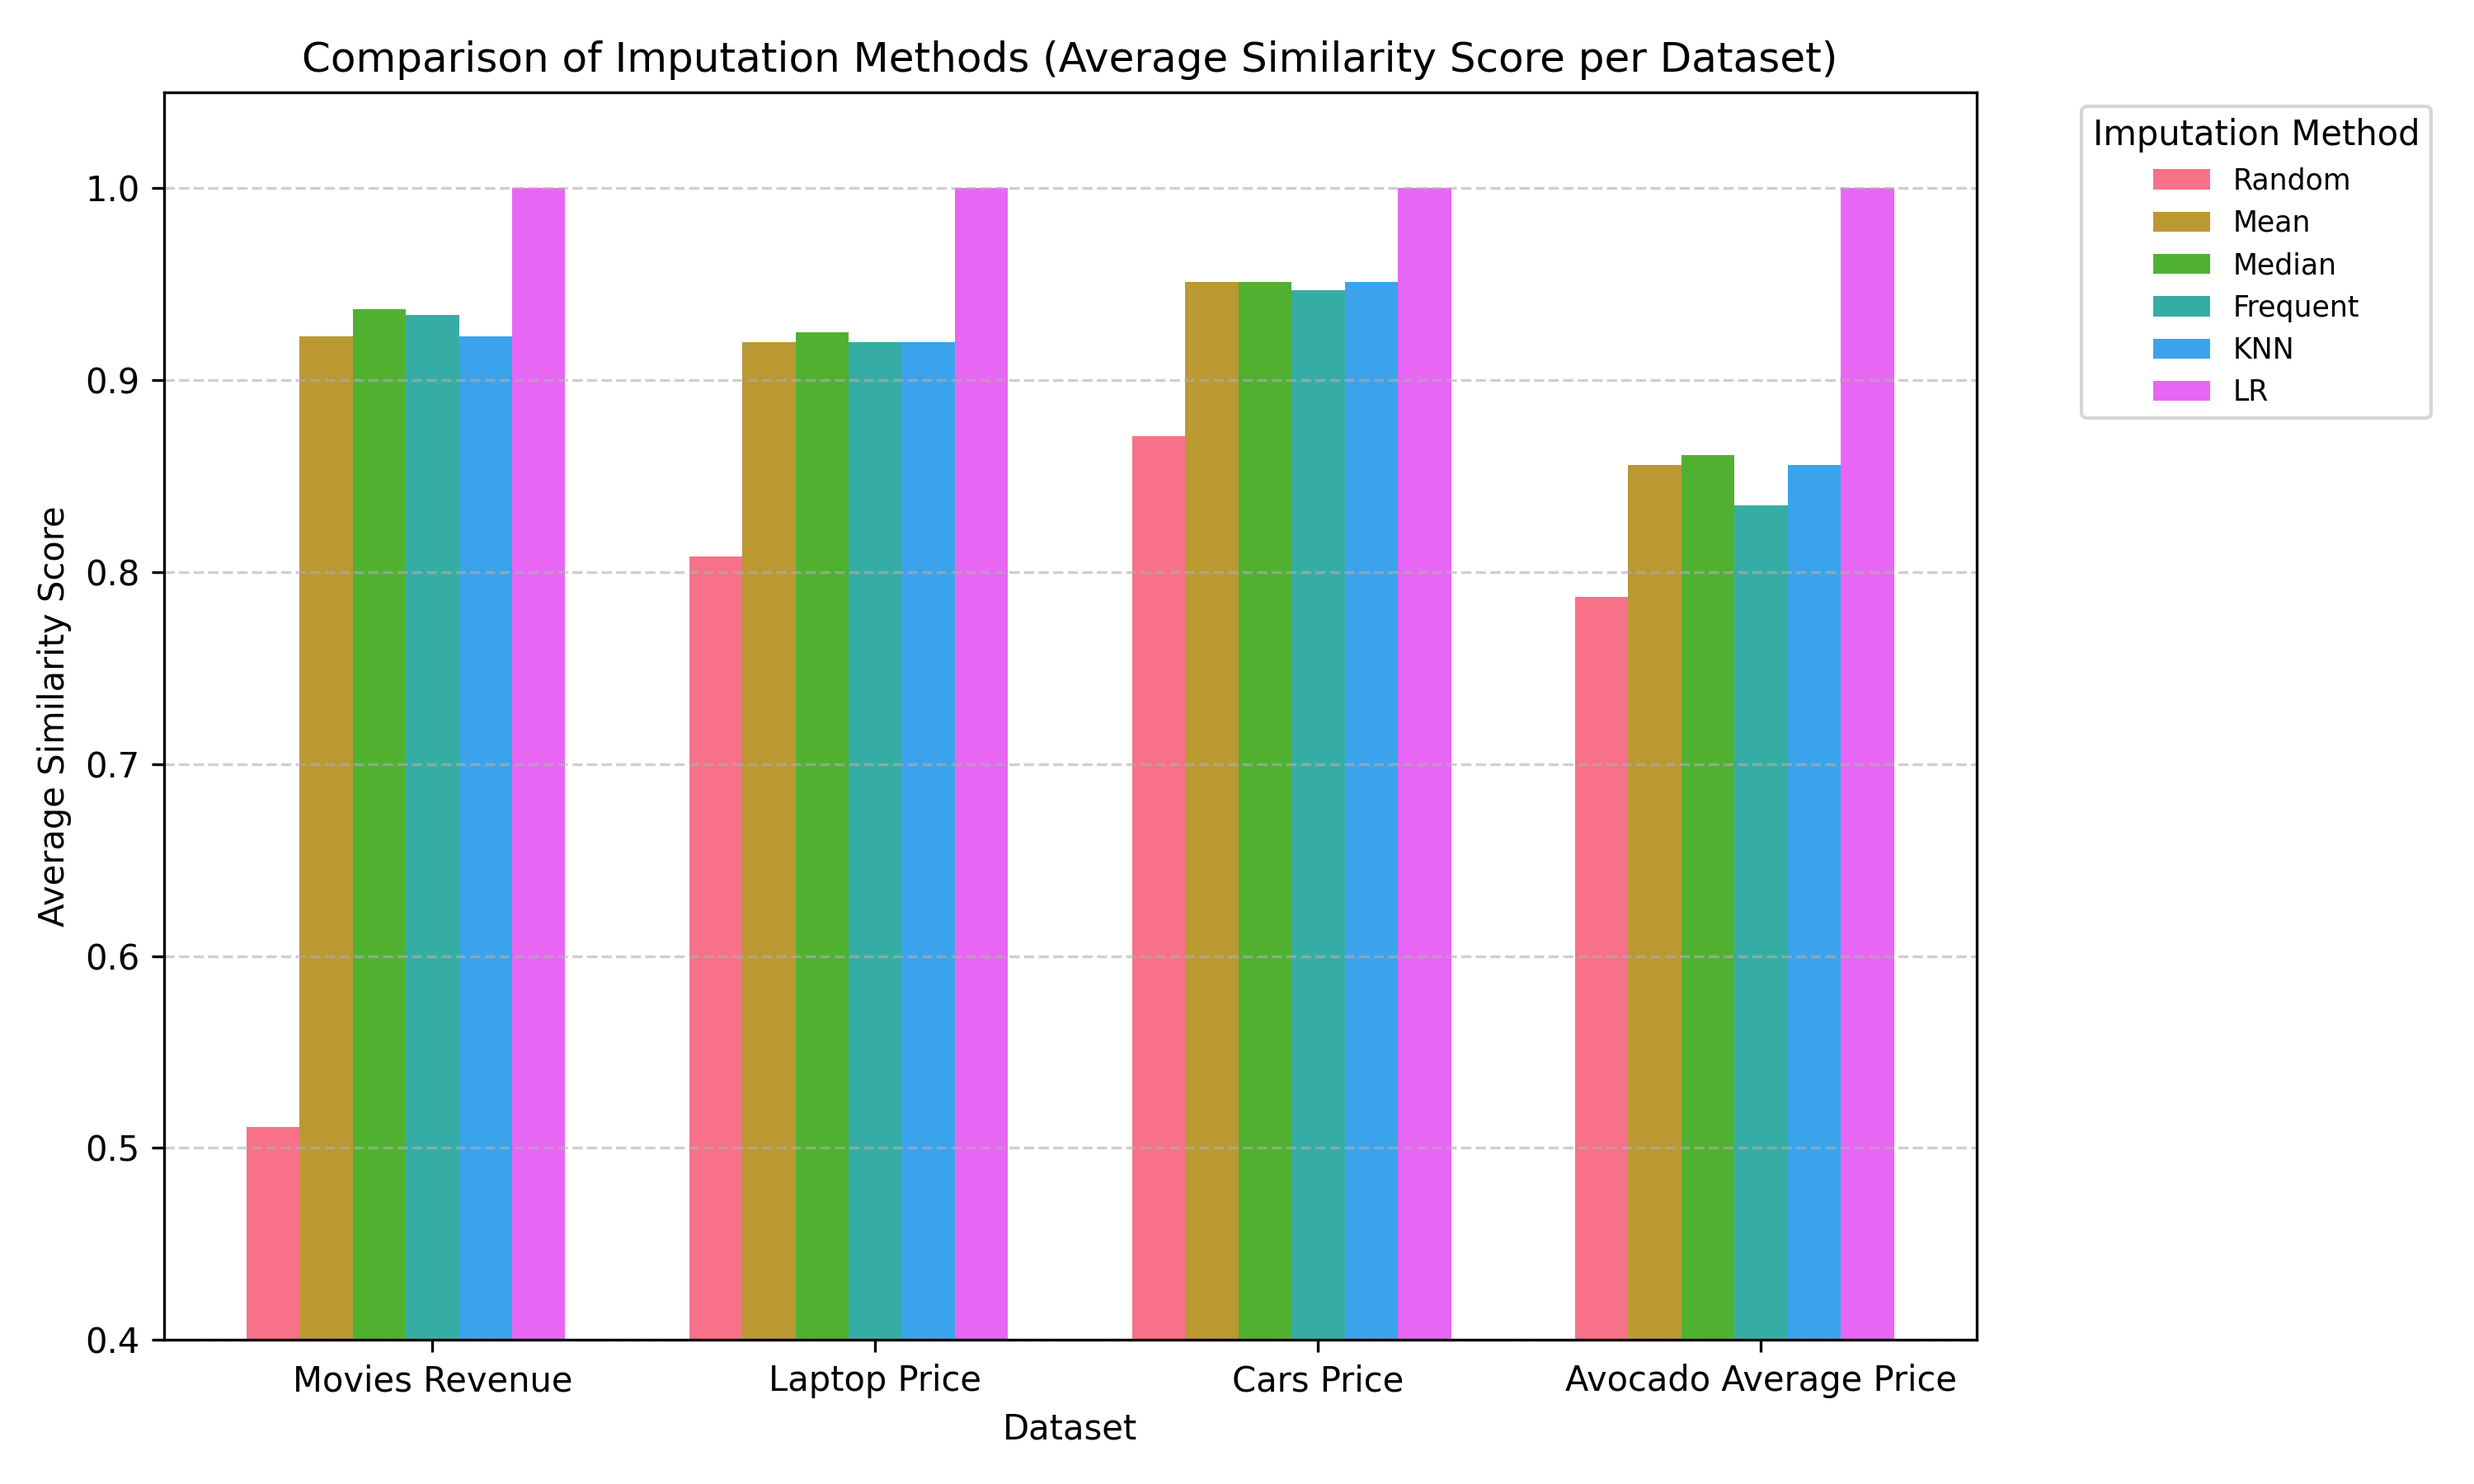
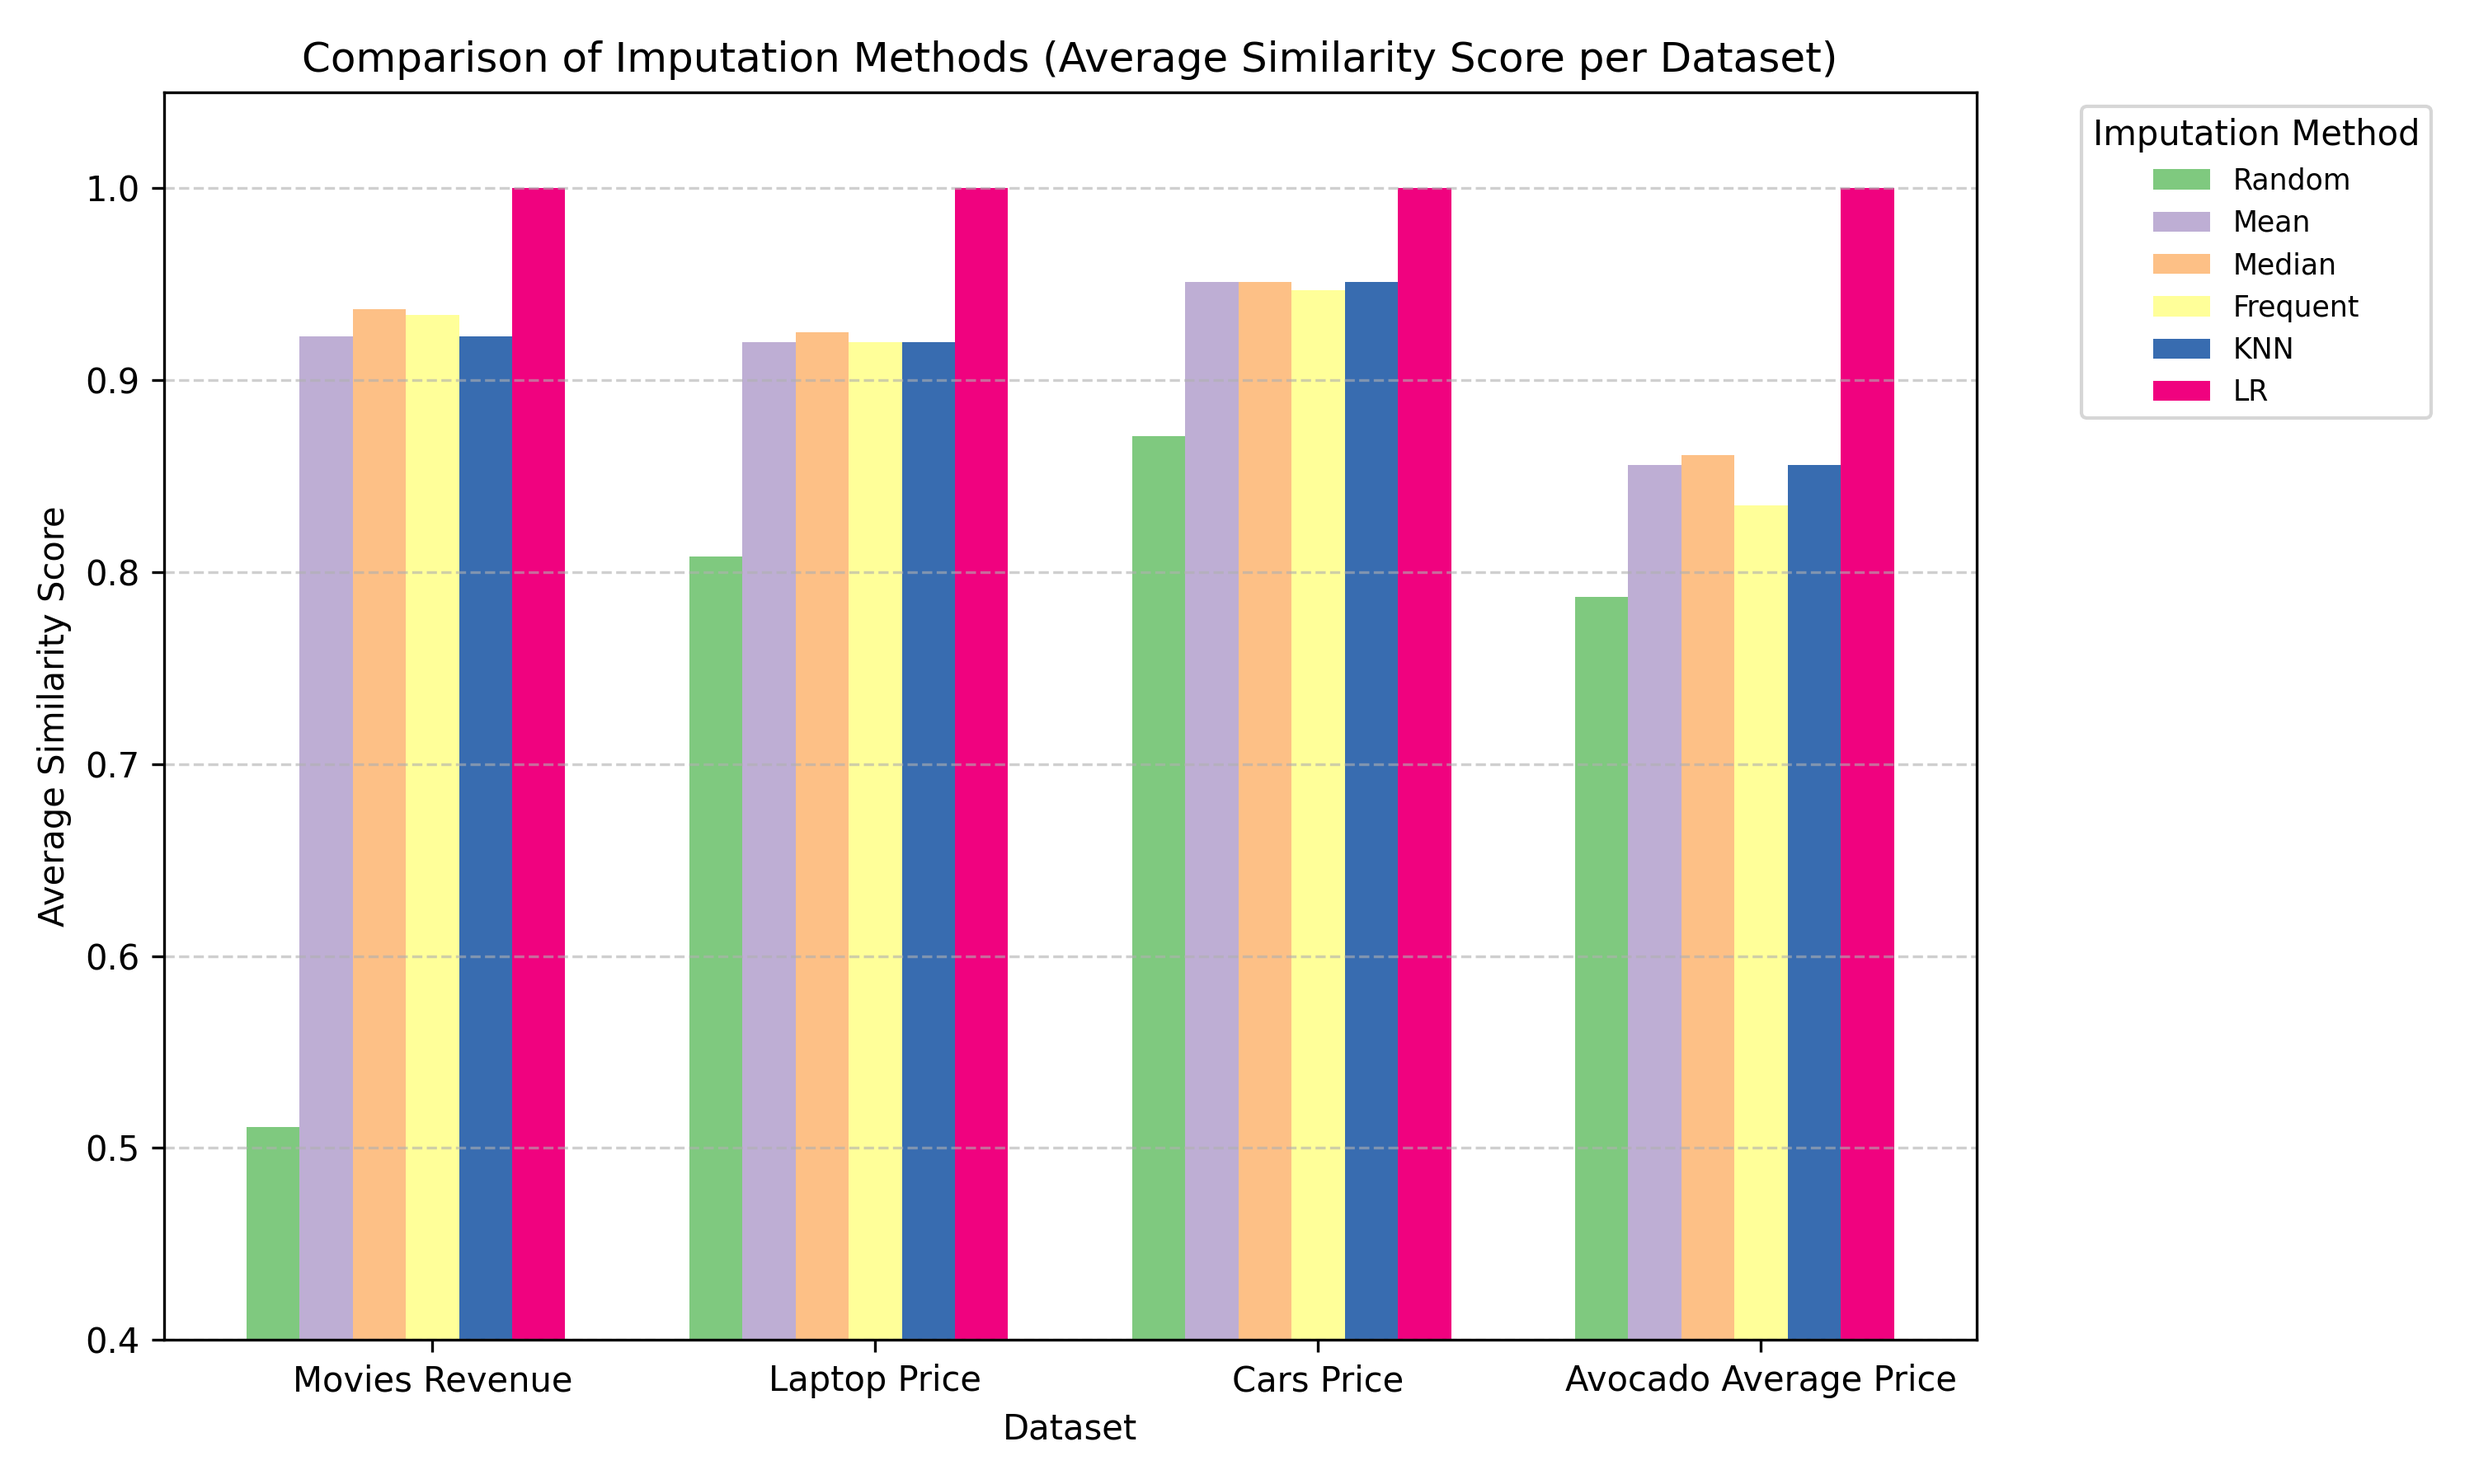
changed the palette to a better one

diff --git a/Final_Project/graphs/graph2.py b/Final_Project/graphs/graph2.py
@@ -29,7 +29,7 @@ bar_width = 0.12  # Width of bars
 x = np.arange(num_datasets)
 
 # Use seaborn color palette
-colors = sns.color_palette("husl", num_methods)
+colors = sns.color_palette("Accent", num_methods)
 
 # Plot bars for each method
 for i, method in enumerate(df.columns[1:]):  # Skip 'Dataset' column
